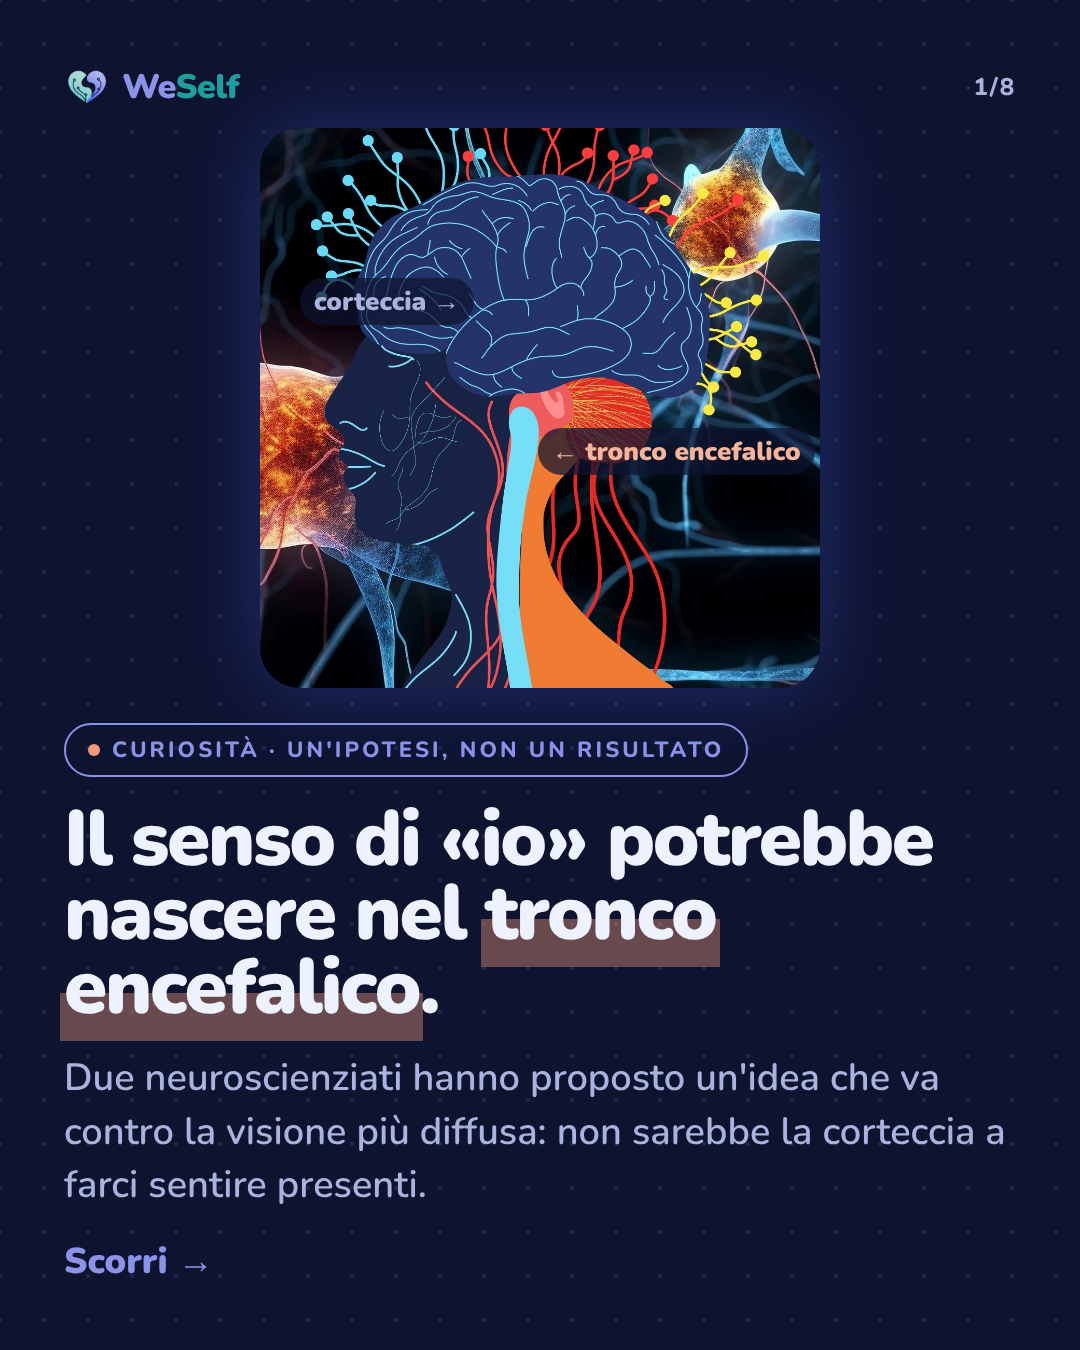
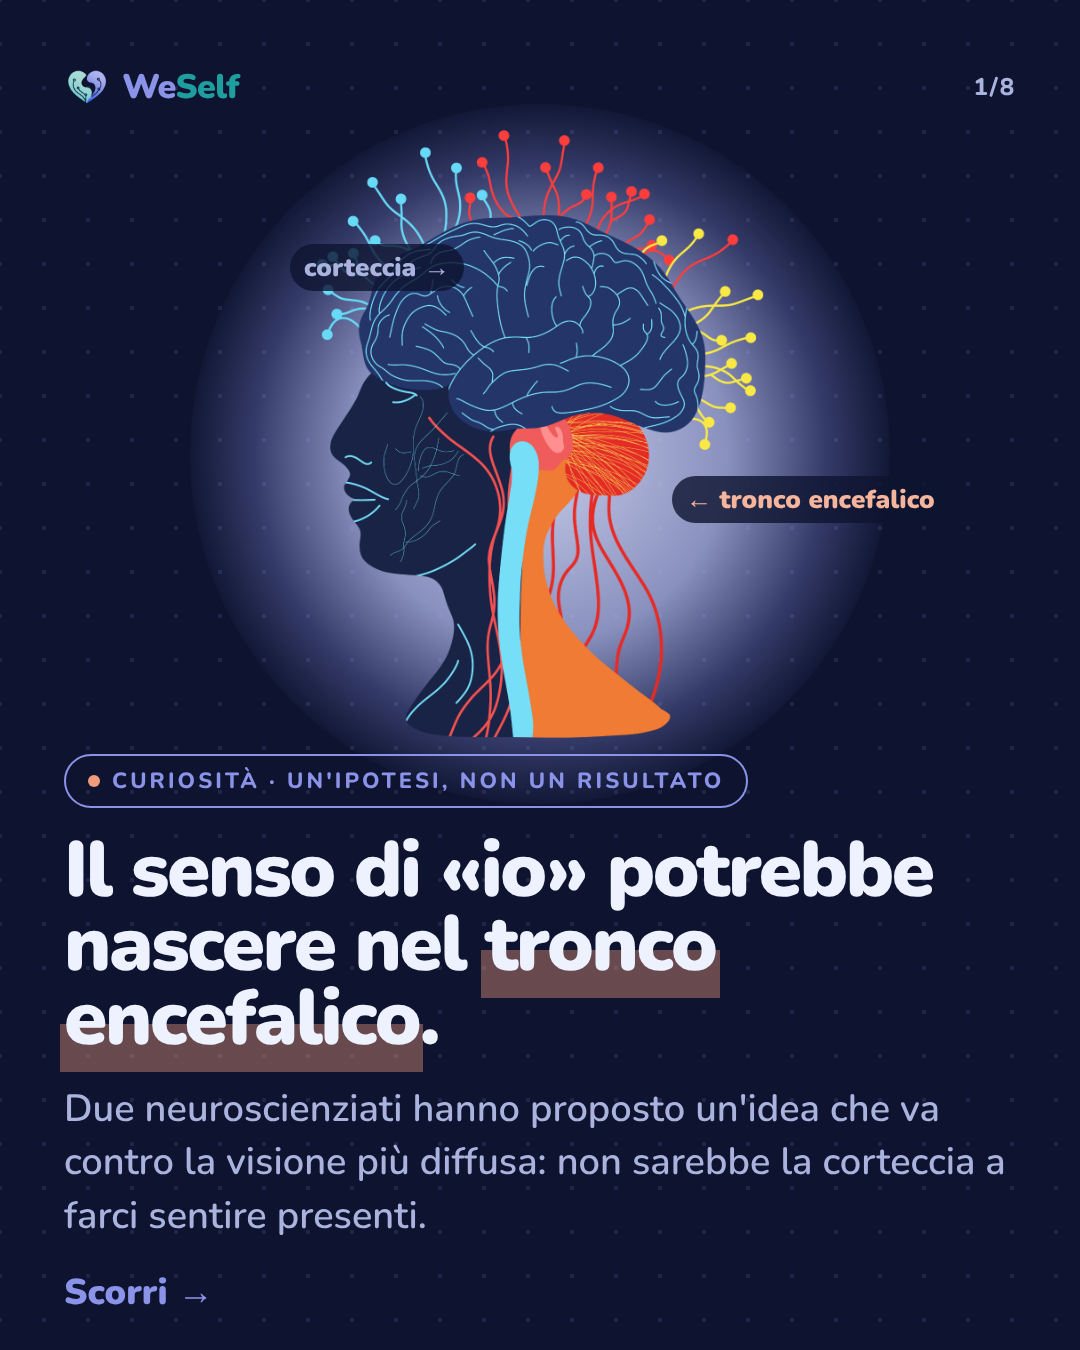
Curiosità coscienza: copertina con l'illustrazione a sfondo trasparente e alone
Claude-Session: https://claude.ai/code/session_01KYQeP73Zvn8PeP6zhkL2Sc

Changed region(s): [[0.0306, 0.0622, 0.9472, 0.9644]]

diff --git a/carosselli/coscienza/slides.html b/carosselli/coscienza/slides.html
@@ -92,6 +92,11 @@ svg.shape{position:absolute;z-index:1}
 </style>
 <style>
 .cv{display:block;margin-top:20px;align-self:center}
+.fig{position:relative;margin:4px auto 0;width:480px;height:640px}
+.fig::before{content:"";position:absolute;left:-110px;top:-10px;width:700px;height:700px;border-radius:50%;background:radial-gradient(circle,rgba(214,219,248,.92) 0%,rgba(178,186,238,.75) 38%,rgba(139,147,232,.30) 58%,rgba(14,20,48,0) 72%)}
+.fig img{position:relative;width:100%;height:100%;object-fit:contain;display:block}
+.fig .lbl{position:absolute;font-weight:900;font-size:26px;color:#F5B49C;background:rgba(14,20,48,.8);padding:6px 14px;border-radius:999px;white-space:nowrap}
+.fig .lbl.c{color:#AAB3DD}
 .photo{position:relative;margin:18px auto 0;width:560px;height:560px;border-radius:40px;overflow:hidden;box-shadow:0 0 80px rgba(74,91,232,.35)}
 .photo img{width:100%;height:100%;object-fit:cover;object-position:50% 52%;display:block}
 .photo .lbl{position:absolute;font-weight:900;font-size:26px;color:#F5B49C;background:rgba(14,20,48,.72);padding:6px 14px;border-radius:999px;white-space:nowrap}
@@ -117,10 +122,10 @@ svg.shape{position:absolute;z-index:1}
 
 <section class="slide" id="s1">
   <div class="top"><div class="brand"><img src="weself-mark.png"><span><span class="we">We</span><span class="self">Self</span></span></div><div class="count">1/8</div></div>
-  <div class="photo">
-    <img src="cover-brain.jpg" alt="">
-    <span class="lbl" style="left:278px;top:300px">← tronco encefalico</span>
-    <span class="lbl c" style="left:40px;top:150px">corteccia →</span>
+  <div class="fig">
+    <img src="cover-brain.png" alt="">
+    <span class="lbl c" style="left:-10px;top:130px">corteccia →</span>
+    <span class="lbl" style="left:372px;top:362px">← tronco encefalico</span>
   </div>
   <div style="margin-top:auto;gap:26px" class="stack">
     <span class="tag"><i></i>Curiosità · un'ipotesi, non un risultato</span>

diff --git a/carosselli/coscienza/body.html b/carosselli/coscienza/body.html
@@ -1,5 +1,10 @@
 <style>
 .cv{display:block;margin-top:20px;align-self:center}
+.fig{position:relative;margin:4px auto 0;width:480px;height:640px}
+.fig::before{content:"";position:absolute;left:-110px;top:-10px;width:700px;height:700px;border-radius:50%;background:radial-gradient(circle,rgba(214,219,248,.92) 0%,rgba(178,186,238,.75) 38%,rgba(139,147,232,.30) 58%,rgba(14,20,48,0) 72%)}
+.fig img{position:relative;width:100%;height:100%;object-fit:contain;display:block}
+.fig .lbl{position:absolute;font-weight:900;font-size:26px;color:#F5B49C;background:rgba(14,20,48,.8);padding:6px 14px;border-radius:999px;white-space:nowrap}
+.fig .lbl.c{color:#AAB3DD}
 .photo{position:relative;margin:18px auto 0;width:560px;height:560px;border-radius:40px;overflow:hidden;box-shadow:0 0 80px rgba(74,91,232,.35)}
 .photo img{width:100%;height:100%;object-fit:cover;object-position:50% 52%;display:block}
 .photo .lbl{position:absolute;font-weight:900;font-size:26px;color:#F5B49C;background:rgba(14,20,48,.72);padding:6px 14px;border-radius:999px;white-space:nowrap}
@@ -25,10 +30,10 @@
 
 <section class="slide" id="s1">
   <div class="top"><div class="brand"><img src="weself-mark.png"><span><span class="we">We</span><span class="self">Self</span></span></div><div class="count">1/8</div></div>
-  <div class="photo">
-    <img src="cover-brain.jpg" alt="">
-    <span class="lbl" style="left:278px;top:300px">← tronco encefalico</span>
-    <span class="lbl c" style="left:40px;top:150px">corteccia →</span>
+  <div class="fig">
+    <img src="cover-brain.png" alt="">
+    <span class="lbl c" style="left:-10px;top:130px">corteccia →</span>
+    <span class="lbl" style="left:372px;top:362px">← tronco encefalico</span>
   </div>
   <div style="margin-top:auto;gap:26px" class="stack">
     <span class="tag"><i></i>Curiosità · un'ipotesi, non un risultato</span>

diff --git a/carosselli/coscienza/kit-pubblicazione-coscienza.md b/carosselli/coscienza/kit-pubblicazione-coscienza.md
@@ -38,7 +38,7 @@ Che tipo di articolo è: un'ipotesi teorica. Gli autori non presentano dati nuov
 
 ## Testo alternativo (una riga per immagine)
 
-1. Copertina WeSelf su fondo blu notte: illustrazione di una testa di profilo, blu scuro, con il cervello in evidenza e, sotto, una colonna azzurra che scende nel collo, il tronco encefalico; intorno, ramificazioni colorate e neuroni sullo sfondo. Etichette: «corteccia» e «tronco encefalico». Pillola: «Curiosità · un'ipotesi, non un risultato». Testo: «Il senso di "io" potrebbe nascere nel tronco encefalico. Due neuroscienziati hanno proposto un'idea che va contro la visione più diffusa: non sarebbe la corteccia a farci sentire presenti.»
+1. Copertina WeSelf su fondo blu notte: illustrazione di una testa di profilo, blu scuro, su un alone lilla chiaro, con il cervello in evidenza e, sotto, una colonna azzurra che scende nel collo, il tronco encefalico; dal cervello partono ramificazioni colorate. Etichette: «corteccia» e «tronco encefalico». Pillola: «Curiosità · un'ipotesi, non un risultato». Testo: «Il senso di "io" potrebbe nascere nel tronco encefalico. Due neuroscienziati hanno proposto un'idea che va contro la visione più diffusa: non sarebbe la corteccia a farci sentire presenti.»
 2. L'ipotesi: due cose diverse che chiamiamo «coscienza». Il «me dentro», la sensazione di esserci, che c'è anche a occhi chiusi; ed essere consapevoli di qualcosa, come un suono, un'immagine o un ricordo. Secondo Marshall Devor e Mark Baron, il «me dentro» nascerebbe in una piccola zona del tronco encefalico, mentre la corteccia elaborerebbe ciò che vediamo, sentiamo e ricordiamo.
 3. Prova adesso: chiudi gli occhi e copri le orecchie per qualche secondo. Gran parte di ciò di cui eri consapevole sparisce, ma tu ci sei ancora, per intero. Per gli autori, è questo il «me dentro».
 4. Gli indizi, raccolti dagli autori da studi precedenti. Il punto di partenza è il dolore: stimolare la corteccia durante gli interventi da svegli quasi mai fa provare dolore; lesioni anche ampie della corteccia non hanno tolto né il dolore né la coscienza; piccole lesioni in una zona precisa del tronco encefalico sono legate al coma, e negli esperimenti degli autori sui ratti un anestetico iniettato lì ha indotto l'anestesia.
@@ -55,4 +55,4 @@ Che tipo di articolo è: un'ipotesi teorica. Gli autori non presentano dati nuov
 - **Slide 5:** «Siamo robot senzienti» traduce «We humans are sentient robots». Gli esempi (girarsi nel letto senza cadere, svegliarsi sentendo il proprio nome) sono quelli dell'articolo.
 - **Slide 8:** il collegamento con le abitudini è nostro, non degli autori; per questo è nella slide finale e nella didascalia è dichiarato.
 - **Tema non sensibile** per le nostre regole: nessun consiglio medico; dolore, coma e anestesia sono citati solo come indizi scientifici.
-- **Immagine di copertina:** illustrazione fornita dal fondatore (1080×1440), ritagliata in quadrato sulla testa. Prima di pubblicare, conferma che la licenza ne permette l'uso sui social di WeSelf (per esempio, se è fatta con elementi Canva: elementi gratuiti o Pro con licenza attiva). Non serve citarla nel primo commento, salvo diversa indicazione della licenza. La colonna azzurra rappresenta tronco encefalico e midollo spinale insieme: l'etichetta indica la parte alta, sotto il cervello.
+- **Immagine di copertina:** illustrazione fornita dal fondatore (PNG 1080×1440 con sfondo trasparente), posata su un alone lilla chiaro perché la testa blu scuro resti leggibile sul fondo blu notte. Prima di pubblicare, conferma che la licenza ne permette l'uso sui social di WeSelf (per esempio, se è fatta con elementi Canva: elementi gratuiti o Pro con licenza attiva). Non serve citarla nel primo commento, salvo diversa indicazione della licenza. La colonna azzurra rappresenta tronco encefalico e midollo spinale insieme: l'etichetta indica la parte alta, sotto il cervello.
